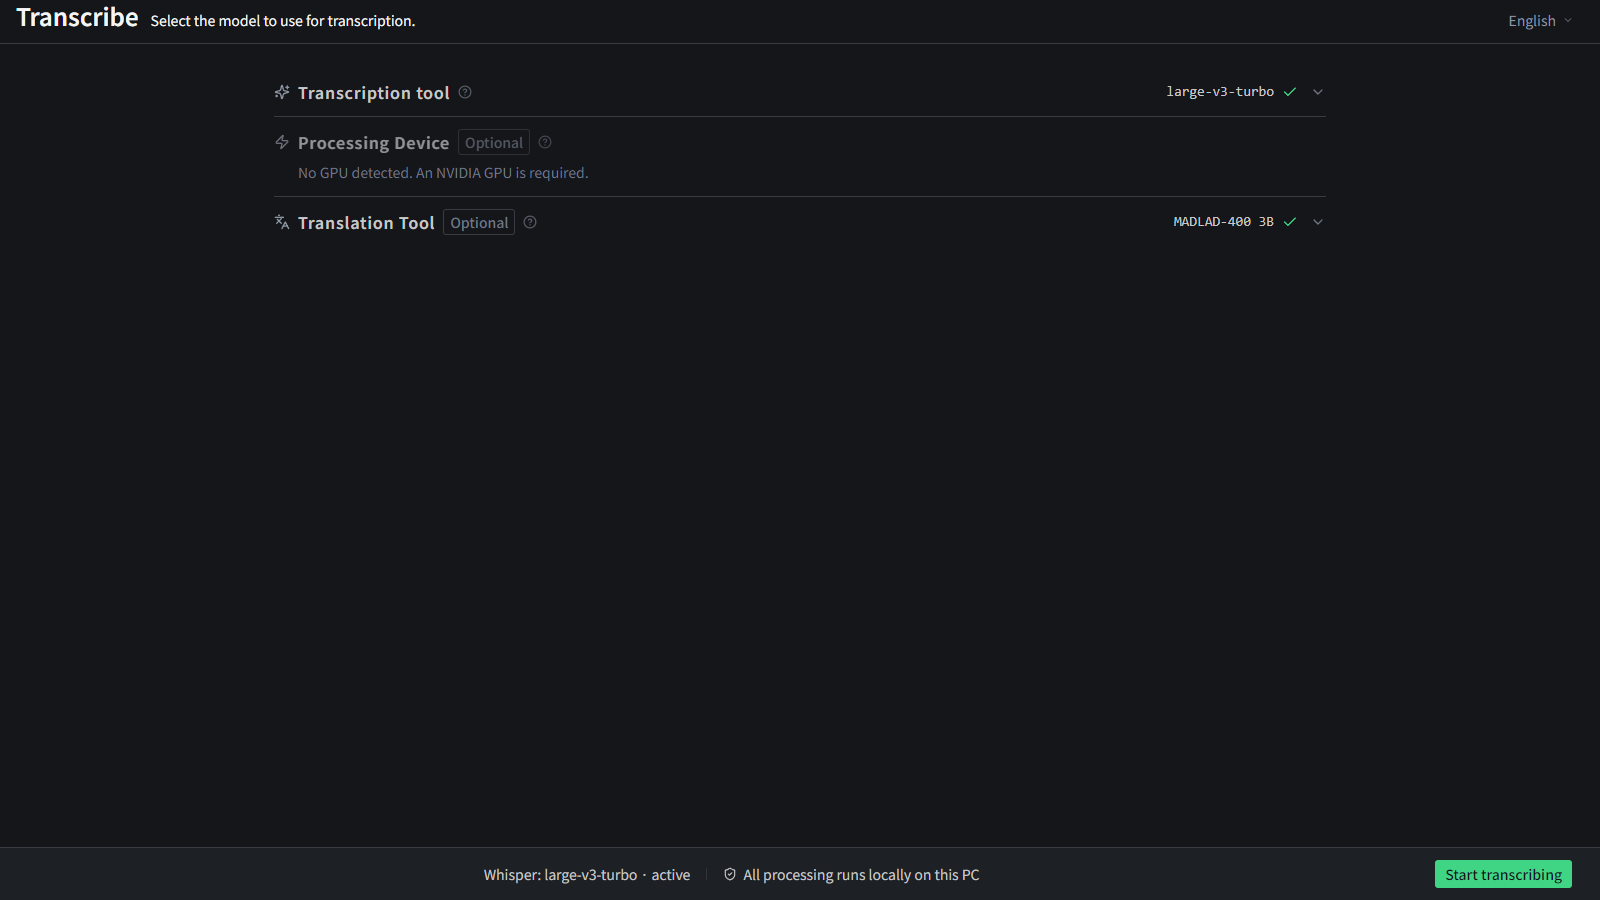
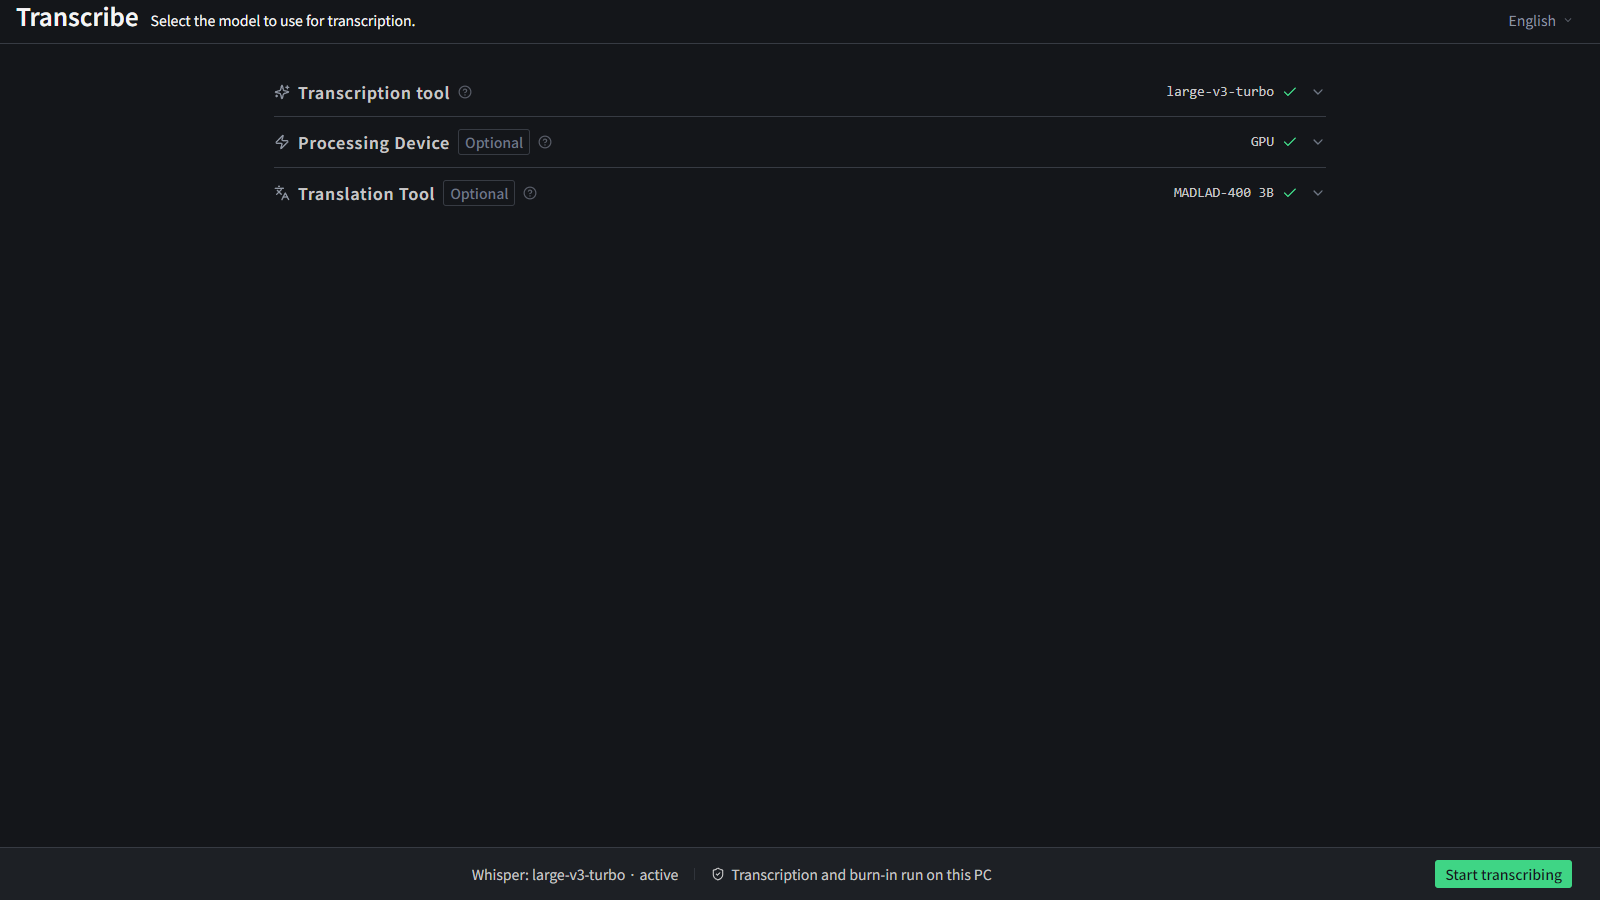
fix(step1,site): name which processing is local, and widen the guard that missed it (REQ-0572)
The STEP1 bar said everything completes on this PC. It sits under a screen
that also configures the translation tool, in an app that now has MCP, so
it now names the span instead: transcription through burn-in.

The REQ-0559 guard listed retired sentences verbatim, and this one was
worded differently - but worse, its last assertion required the bar to keep
saying it. So it did not merely miss the claim, it held it in place. The
guard now sweeps every i18n string for the SHAPE (a totality word plus a
locality word) and makes each hit justify itself on an allow-list; a new
unqualified claim fails by default.

Also adds the translation section to both pages, with a caption saying why
the screenshot carries the other language's subtitles.

Claude-Session: https://claude.ai/code/session_014Y9FwegmZFk9XDpatGd9X5

diff --git a/tests/unit/ai-consent-req-0551.test.ts b/tests/unit/ai-consent-req-0551.test.ts
@@ -1,5 +1,5 @@
 import { describe, it, expect } from 'vitest'
-import { readFileSync } from 'node:fs'
+import { readFileSync, readdirSync } from 'node:fs'
 import { resolve } from 'node:path'
 import { hasAiConsent, sanitizeAiConsent } from '../../src/shared/ai-consent'
 import { SETTINGS_MERGE_RULES } from '../../src/main/ipc/settings-merge'
@@ -250,11 +250,129 @@ describe('REQ-0559 §1 — no "everything stays on this PC" claim on AI surfaces
     expect(beforeDialog).toContain("t('ai.privacyTitle')")
   })
 
-  it('the claim IS still allowed where it is true (transcription / burn-in)', () => {
-    // Whisper and the burn really do run locally with no network. Banning the
-    // sentence product-wide would delete a true and useful statement.
-    const step1 = JSON.parse(read('src/renderer/locales/ja/step1.json')) as { footer: { privacyNote: string } }
-    expect(step1.footer.privacyNote).toContain('完結')
+  /**
+   * ★ REQ-0572 §1-2 — this test used to PIN the sentence it should have caught.
+   *
+   * It asserted that STEP1's footer bar still contained 「完結」, on the reasoning
+   * that the claim is true for transcription and burn-in. But the bar is not
+   * scoped to those: it sits under a screen that also configures the
+   * translation tool, in an app that now has AI integration, and it says
+   * "everything". So the guard was not merely blind to the bar — it held the
+   * bar in place, and REQ-0559's exact-string list (`このPCで完結`) matched it
+   * without anyone noticing the assertion below was pointing the other way.
+   *
+   * Replaced with the scoped statement the bar now makes.
+   */
+  it('the STEP1 bar names WHICH processing is local, not "everything"', () => {
+    for (const lang of ['ja', 'en'] as const) {
+      const step1 = JSON.parse(read(`src/renderer/locales/${lang}/step1.json`)) as {
+        footer: { privacyNote: string }
+      }
+      const note = step1.footer.privacyNote
+      // It still says the work happens here…
+      expect(note, `${lang} bar must still say where processing happens`).toMatch(
+        lang === 'ja' ? /この PC/ : /on this PC/,
+      )
+      // …but names the span rather than claiming all of it.
+      expect(note, `${lang} bar must name transcription`).toMatch(
+        lang === 'ja' ? /文字起こし/ : /Transcription/,
+      )
+      expect(note, `${lang} bar must not claim everything`).not.toMatch(
+        lang === 'ja' ? /すべて|全て|完結/ : /\ball processing\b/i,
+      )
+    }
+  })
+})
+
+/**
+ * ★ REQ-0572 §1-2 — catch the SHAPE of the claim, not one spelling of it.
+ *
+ * REQ-0559's guard listed sentences verbatim (`この PC の中で完結`,
+ * `everything stays on this PC`). STEP1's footer said 「すべての処理はこのPCで
+ * 完結します」 — same claim, different words — and sailed through, then shipped
+ * in every published screenshot until REQ-0571 read one.
+ *
+ * So this sweeps EVERY i18n string in both languages for the co-occurrence of a
+ * totality word and a locality word, and requires each hit to be on an explicit
+ * allow-list with a reason. A new unqualified claim fails by default; a correct
+ * one costs one line here. That is the right way round — the previous default
+ * was "allowed unless someone predicted the exact phrasing".
+ */
+describe('REQ-0572 §1-2 — every "all processing is local" claim is accounted for', () => {
+  const TOTALITY = { ja: /すべて|全て|一切|完結/, en: /\ball\b|\bentirely\b|\bonly\b|\bnever\b|\bno (data|audio)\b/i }
+  const LOCALITY = {
+    ja: /この\s?PC|あなたの\s?PC|ローカル|端末内|外部に/,
+    en: /on (this|your) (PC|computer)|local|external|outside/i,
+  }
+
+  /**
+   * Keys allowed to carry the shape, each with why it is accurate.
+   *
+   * The bar is: the sentence must either NAME what is local (so it cannot be
+   * read as covering AI integration), or carry its own qualifier.
+   */
+  const ALLOWED: Record<string, string> = {
+    'settings:ai.consent.lead':
+      'says the app processing is local, then immediately states what is not — the RES-0559 confirmed wording',
+    'settings:ai.consent.staysLocal':
+      'names exactly which things stay: the video and audio files, transcription, translation, burn-in',
+    'step1:whisperModel.descriptionLong':
+      'scoped to the transcription tool it describes ("文字起こしの処理は" / "Transcription happens")',
+    'step1:translationTool.descriptionLong':
+      'scoped to translation ("翻訳はすべて" / "every translation runs")',
+    'step2:toast.srtImportAllOutOfDuration':
+      'not a privacy claim — "all subtitles were outside the video duration"',
+  }
+
+  it('★ no i18n string makes an unscoped locality claim', () => {
+    const found: string[] = []
+    for (const lang of ['ja', 'en'] as const) {
+      const dir = `src/renderer/locales/${lang}`
+      for (const file of readdirSync(dir)) {
+        if (!file.endsWith('.json')) continue
+        const ns = file.replace('.json', '')
+        const walk = (o: unknown, p: string): void => {
+          if (typeof o === 'string') {
+            if (TOTALITY[lang].test(o) && LOCALITY[lang].test(o)) found.push(`${ns}:${p}`)
+            return
+          }
+          if (o && typeof o === 'object') {
+            for (const [k, v] of Object.entries(o)) walk(v, p ? `${p}.${k}` : k)
+          }
+        }
+        walk(JSON.parse(read(`${dir}/${file}`)), '')
+      }
+    }
+    const unexplained = [...new Set(found)].filter((k) => !(k in ALLOWED))
+    expect(
+      unexplained,
+      `New locality claim(s) with no entry in ALLOWED. Either scope the sentence ` +
+      `(name WHAT is local) or add it with a reason: ${unexplained.join(', ')}`,
+    ).toEqual([])
+  })
+
+  it('the allow-list has no dead entries', () => {
+    // A stale allow-list is how a guard stops discriminating. If a key is
+    // rewritten or removed, its excuse must go too.
+    const live: string[] = []
+    for (const lang of ['ja', 'en'] as const) {
+      const dir = `src/renderer/locales/${lang}`
+      for (const file of readdirSync(dir)) {
+        if (!file.endsWith('.json')) continue
+        const ns = file.replace('.json', '')
+        const walk = (o: unknown, p: string): void => {
+          if (typeof o === 'string') {
+            if (TOTALITY[lang].test(o) && LOCALITY[lang].test(o)) live.push(`${ns}:${p}`)
+            return
+          }
+          if (o && typeof o === 'object') {
+            for (const [k, v] of Object.entries(o)) walk(v, p ? `${p}.${k}` : k)
+          }
+        }
+        walk(JSON.parse(read(`${dir}/${file}`)), '')
+      }
+    }
+    expect(Object.keys(ALLOWED).filter((k) => !live.includes(k))).toEqual([])
   })
 })
 

diff --git a/docs/index.html b/docs/index.html
@@ -351,7 +351,26 @@
         </div>
       </div>
 
-      <!-- 機能4: 字幕を焼き込んで動画出力 -->
+      <!-- 機能4: 多言語字幕（翻訳） — REQ-0572 §2-2 -->
+      <div class="feature-item">
+        <div>
+          <!-- ★ REQ-0566 §2-1: this shot carries ENGLISH subtitles on the
+               Japanese page, which is the one place that is correct — the
+               section is about translating INTO another language, so the
+               caption below says so explicitly rather than leaving a reader
+               to wonder why the language flipped. -->
+          <img src="images/v140/s5-translate.png" alt="日本語の字幕を英語に翻訳した画面" class="feature-image" loading="lazy">
+          <p class="feature-caption">↑ 日本語の字幕を英語に翻訳した状態</p>
+        </div>
+        <div class="feature-content">
+          <h3>多言語字幕（翻訳）</h3>
+          <p>Google が開発した翻訳 AI「MADLAD-400」を追加でダウンロードすると、作った字幕をワンクリックや一括で別の言語に翻訳できます。日本語↔英語をはじめ、多くの言語に対応しています。</p>
+          <p>翻訳はこの PC の中で実行されます。翻訳のために字幕テキストが外部に送信されることはありません。GPU があればさらに高速です。</p>
+          <p class="feature-hint"><span class="feature-hint-label">💡 使い方</span>翻訳ツールは任意のダウンロードです。使わない場合はインストール不要で、アプリの容量も増えません。</p>
+        </div>
+      </div>
+
+      <!-- 機能5: 字幕を焼き込んで動画出力 -->
       <div class="feature-item">
         <div>
           <img src="images/v140/s6-burn.png" alt="字幕を焼き込んで動画を書き出す画面" class="feature-image" loading="lazy">

diff --git a/docs/en/index.html b/docs/en/index.html
@@ -352,6 +352,23 @@
         </div>
       </div>
 
+      <!-- Feature 4: Multilingual subtitles (translation) — REQ-0572 §2-2 -->
+      <div class="feature-item">
+        <div>
+          <!-- ★ Mirror of the JA page: this shot carries JAPANESE subtitles on
+               the English page, because the section is about translating INTO
+               another language. The caption says so. -->
+          <img src="../images/v140/en/s5-translate.png" alt="Subtitles translated from English into Japanese" class="feature-image" loading="lazy">
+          <p class="feature-caption">Above: English subtitles translated into Japanese</p>
+        </div>
+        <div class="feature-content">
+          <h3>Multilingual subtitles (translation)</h3>
+          <p>Download the optional MADLAD-400 translation AI, developed by Google, and translate your finished subtitles into another language in one click or in bulk. Many languages are covered, including Japanese and English in both directions.</p>
+          <p>Translation runs on this PC. No subtitle text is sent anywhere in order to translate it, and a GPU makes it faster still.</p>
+          <p class="feature-hint"><span class="feature-hint-label">💡 Note</span>The translation tool is an optional download. Skip it and nothing is installed — the app stays the same size.</p>
+        </div>
+      </div>
+
       <!-- Feature 4: Burn in subtitles and export video -->
       <div class="feature-item">
         <div>

diff --git a/docs/assets/style.css b/docs/assets/style.css
@@ -287,6 +287,18 @@ body {
    so this note sits in the flow above it and the two cards' buttons stay on
    the same line. Muted and small: it is a fact to check before clicking, not
    a selling point. */
+/* REQ-0572 §2-2 — caption under a feature image. Used by the translation
+   section, where the screenshot deliberately shows the OTHER language's
+   subtitles: without a line saying so, a reader on the Japanese page just
+   sees English captions and reads it as a mistake (which is exactly what
+   REQ-0566 caught the first time). */
+.feature-caption {
+  margin: 8px 0 0;
+  text-align: center;
+  font-size: 13px;
+  color: var(--text-secondary);
+}
+
 .version-card-note {
   margin: 0 0 10px;
   text-align: center;
